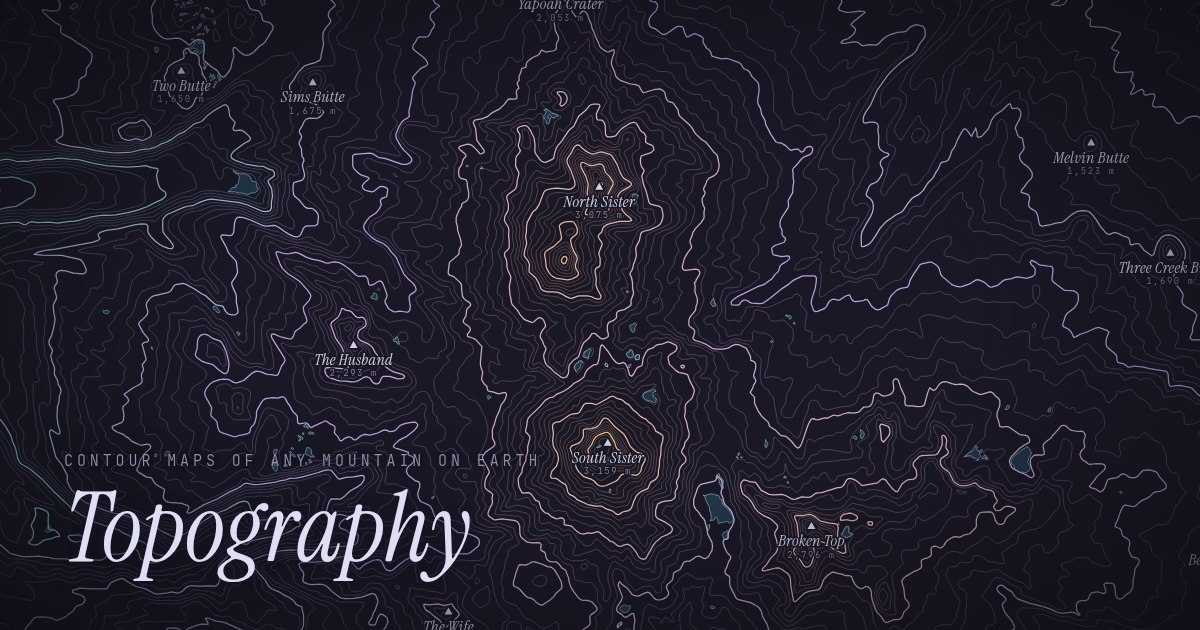
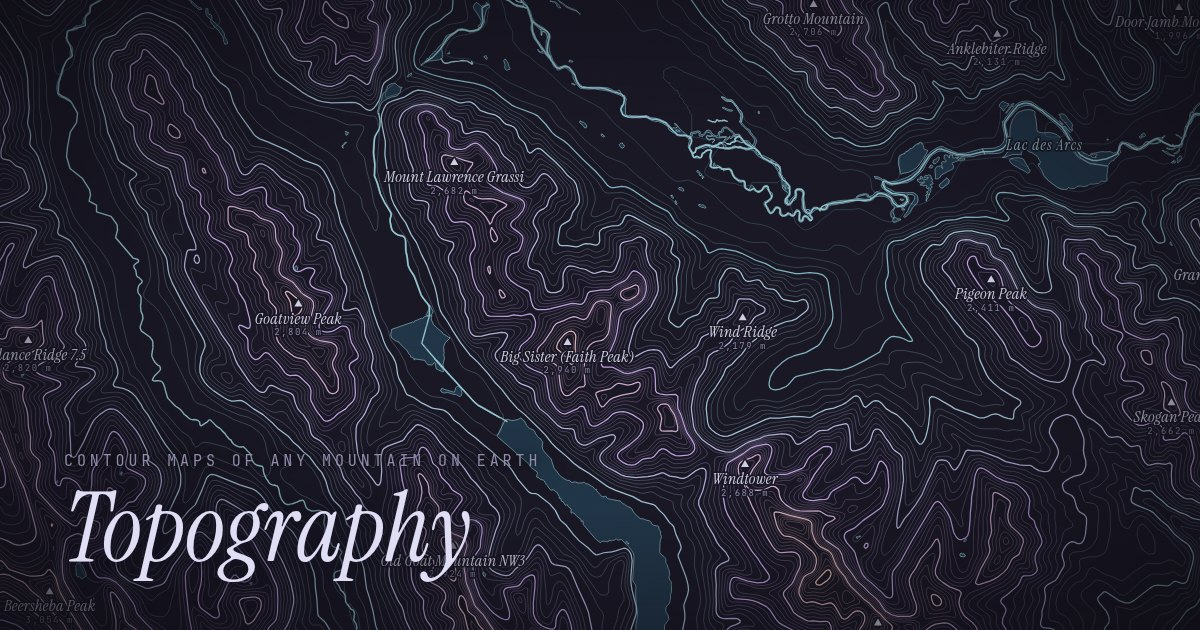
Start at the Three Sisters above Canmore, not Oregon
The site's starting place and the three-sisters summit were the Oregon
Cascades volcanoes; the intended Three Sisters are the Canmore, Alberta
group (Big Sister / Faith Peak, Middle Sister / Hope Peak, Little Sister
/ Charity Peak). START and the summit entry now centre on the group
(51.0208, -115.3409, at Middle Sister) with Big Sister's 2,936 m, in the
Canadian Rockies; checked against the elevation tiles (1.7%). The front
page's and the summit's share images and first frames are re-rendered,
and the image scripts accept "home" in SLUGS and hide the locator panel.

diff --git a/site/peaks.ts b/site/peaks.ts
@@ -57,9 +57,10 @@ export const PEAKS: Peak[] = [
   { slug: 'mount-joffre', name: 'Mount Joffre', ele: 3450, range: 'Canadian Rockies', country: 'Canada', lat: 50.5284, lon: -115.2069 },
   { slug: 'mount-edith-cavell', name: 'Mount Edith Cavell', ele: 3363, range: 'Canadian Rockies', country: 'Canada', lat: 52.6673, lon: -118.0572 },
   { slug: 'cascade-mountain', name: 'Cascade Mountain', ele: 2998, range: 'Canadian Rockies', country: 'Canada', lat: 51.229, lon: -115.5629 },
+  // The group above Canmore: centred on Middle Sister; elevation is Big Sister's.
+  { slug: 'three-sisters', name: 'Three Sisters', ele: 2936, range: 'Canadian Rockies', country: 'Canada', lat: 51.0208, lon: -115.3409 },
   { slug: 'mount-rundle', name: 'Mount Rundle', ele: 2949, range: 'Canadian Rockies', country: 'Canada', lat: 51.1246, lon: -115.4692 },
   { slug: 'mount-hood', name: 'Mount Hood', ele: 3429, range: 'Cascade Range', country: 'United States', lat: 45.3736, lon: -121.696 },
-  { slug: 'three-sisters', name: 'Three Sisters', ele: 3157, range: 'Cascade Range', country: 'United States', lat: 44.135, lon: -121.772 },
   { slug: 'mount-st-helens', name: 'Mount St. Helens', ele: 2549, range: 'Cascade Range', country: 'United States', lat: 46.1914, lon: -122.1956 },
   { slug: 'half-dome', name: 'Half Dome', ele: 2694, range: 'Sierra Nevada', country: 'United States', lat: 37.7459, lon: -119.5332 },
   { slug: 'elbrus', name: 'Mount Elbrus', ele: 5642, range: 'Caucasus', country: 'Russia', lat: 43.3499, lon: 42.4453 },

diff --git a/scripts/og-images.ts b/scripts/og-images.ts
@@ -2,7 +2,7 @@
  * Renders the 1200×630 social preview for / and each summit page into
  * public/og.jpg and public/og/<slug>.jpg, from a running `vite preview`.
  * Use `make og` rather than running this directly; `make og SLUGS="k2 eiger"`
- * re-renders just those summits.
+ * re-renders just those summits ("home" is the front page).
  */
 import { mkdirSync } from 'node:fs';
 import { chromium } from 'playwright-core';
@@ -28,7 +28,7 @@ async function shoot(path: string, eyebrow: string, title: string, file: string)
   await page.waitForTimeout(3500); // let the cross-fade finish
   await page.addStyleTag({
     content: `
-      .nav, .discovery, .legend, .search, .share, .coords, .credits, .loading-bar { display: none !important; }
+      .nav, .discovery, .legend, .search, .share, .locator, .loading-bar { display: none !important; }
       .og { position: fixed; left: 64px; right: 64px; bottom: 56px;
             text-shadow: 0 0 30px #191724, 0 0 10px #191724; }
       .og p { margin: 0; font: 300 15px/1 "JetBrains Mono"; letter-spacing: .26em;
@@ -52,7 +52,7 @@ async function shoot(path: string, eyebrow: string, title: string, file: string)
   console.log('wrote', file.replace(OUT, 'public/'));
 }
 
-if (!ONLY.length) {
+if (!ONLY.length || ONLY.includes('home')) {
   await shoot('/', 'Contour maps of any mountain on Earth', 'Topography', `${OUT}og.jpg`);
 }
 for (const p of PEAKS) {

diff --git a/scripts/prerender.ts b/scripts/prerender.ts
@@ -2,7 +2,7 @@
  * Renders the first frame for / and each summit page: the fully loaded map
  * canvas (no interface) at each PRERENDER size, as WebP, into
  * public/prerender/<key>-<size>.webp. The pages ship these as their first
- * paint. Use `make prerender` (optionally SLUGS="everest k2").
+ * paint. Use `make prerender` (optionally SLUGS="home everest k2").
  */
 import { mkdirSync, writeFileSync } from 'node:fs';
 import { chromium } from 'playwright-core';
@@ -24,7 +24,7 @@ const context = await browser.newContext({ deviceScaleFactor: 1 });
 const page = await context.newPage();
 
 const pages = [
-  ...(ONLY.length ? [] : [{ key: 'home', path: '/' }]),
+  ...(!ONLY.length || ONLY.includes('home') ? [{ key: 'home', path: '/' }] : []),
   ...PEAKS.filter((p) => !ONLY.length || ONLY.includes(p.slug)).map((p) => ({
     key: p.slug,
     path: `/mountains/${p.slug}/map/`,

diff --git a/src/config.ts b/src/config.ts
@@ -1,7 +1,7 @@
 // Opinionated parameters: a handful of scales and one look.
 
-/** Where every visit begins: the Three Sisters, Oregon Cascades. */
-export const START = { name: 'Three Sisters', lat: 44.135, lon: -121.772 };
+/** Where every visit begins: the Three Sisters above Canmore, Alberta (centred on the group). */
+export const START = { name: 'Three Sisters', lat: 51.0208, lon: -115.3409 };
 
 /**
  * The web-mercator zooms the view steps through (one tile pixel is one CSS

diff --git a/site/pages.ts b/site/pages.ts
@@ -77,7 +77,7 @@ export function rootPage(
     description,
     image: '/og.jpg',
     imageAlt:
-      'Contour lines of the Three Sisters volcanoes in Oregon, drawn in teal, iris, rose and gold on a dark background',
+      'Contour lines of the Three Sisters above Canmore, Alberta, drawn in teal, iris, rose and gold on a dark background',
     spot: start,
     prerender: hasPrerender ? 'home' : undefined,
     jsonLd: [
